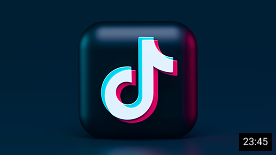
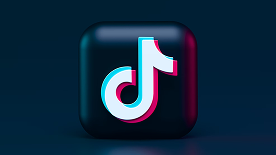
헤더, 사이드바, 반응혁 작업 완료

Changed region(s): [[0.8406, 0.8516, 0.9855, 0.9806]]

diff --git a/index.html b/index.html
@@ -85,14 +85,19 @@
             <li class="item">Item</li>
             <li class="item">Item</li>
             <li class="item">Item</li>
+            
           </ul>
         </nav>
+        
       </div>
 
       <!-- 메인 내 콘텐츠(비디오카드) -->
       <section class = "video-list">
         <article class ="video-card">
-          <img src="./images/main/img-youtube.png" alt="유튜브" class = "video-card-img">
+          <div class ="video-relative">
+            <img src="./images/main/img-youtube.png" alt="유튜브" class = "video-card-img">
+            <span class ="play-time">23:45</span>
+          </div>
           <div class = "video-card-container">
             <img src="./images/main/icon-User-Avatar-2.png" alt="아바타2" class ="avatar">
             <div class = "video-card-content">
@@ -104,7 +109,10 @@
         </article>
 
         <article class ="video-card">
-          <img src="./images/main/img-instagram.png" alt="인스타그램" class = "video-card-img">
+          <div class ="video-relative">
+            <img src="./images/main/img-instagram.png" alt="인스타" class = "video-card-img">
+            <span class ="play-time">23:45</span>
+          </div>
           <div class = "video-card-container">
             <img src="./images/main/icon-User-Avatar-3.png" alt="아바타3" class ="avatar">
             <div class = "video-card-content">
@@ -116,7 +124,10 @@
         </article>
 
         <article class ="video-card">
-          <img src="./images/main/img-tiktok.png" alt="틱톡" class = "video-card-img">
+          <div class ="video-relative">
+            <img src="./images/main/img-tiktok.png" alt="틱톡" class = "video-card-img">
+            <span class ="play-time">23:45</span>
+          </div>
           <div class = "video-card-container">
             <img src="./images/main/icon-User-Avatar-4.png" alt="아바타4" class ="avatar">
             <div class = "video-card-content">
@@ -128,7 +139,10 @@
         </article>
 
         <article class ="video-card">
-          <img src="./images/main/img-netflix.png" alt="넷플릭스" class = "video-card-img">
+          <div class ="video-relative">
+            <img src="./images/main/img-netflix.png" alt="넷플릭스" class = "video-card-img">
+            <span class ="play-time">23:45</span>
+          </div>
           <div class = "video-card-container">
             <img src="./images/main/icon-User-Avatar-5.png" alt="아바타5" class ="avatar">
             <div class = "video-card-content">
@@ -140,7 +154,10 @@
         </article>
 
         <article class ="video-card">
-          <img src="./images/main/img-twitter.png" alt="트위터" class = "video-card-img">
+          <div class ="video-relative">
+            <img src="./images/main/img-twitter.png" alt="트위터" class = "video-card-img">
+            <span class ="play-time">23:45</span>
+          </div>
           <div class = "video-card-container">
             <img src="./images/main/icon-User-Avatar-6.png" alt="아바타6" class ="avatar">
             <div class = "video-card-content">
@@ -152,7 +169,10 @@
         </article>
 
         <article class ="video-card">
-          <img src="./images/main/img-Spotify.png" alt="스포티파이" class = "video-card-img">
+          <div class ="video-relative">
+            <img src="./images/main/img-spotify.png" alt="스푸티파이" class = "video-card-img">
+            <span class ="play-time">23:45</span>
+          </div>
           <div class = "video-card-container">
             <img src="./images/main/icon-User-Avatar-7.png" alt="아바타7" class ="avatar">
             <div class = "video-card-content">
@@ -164,7 +184,10 @@
         </article>
 
         <article class ="video-card">
-          <img src="./images/main/img-discord.png" alt="디스코드" class = "video-card-img">
+          <div class ="video-relative">
+            <img src="./images/main/img-discord.png" alt="디스코드" class = "video-card-img">
+            <span class ="play-time">23:45</span>
+          </div>
           <div class = "video-card-container">
             <img src="./images/main/icon-User-Avatar-8.png" alt="아바타8" class ="avatar">
             <div class = "video-card-content">
@@ -176,7 +199,10 @@
         </article>
 
         <article class ="video-card">
-          <img src="./images/main/igm-tesla.png" alt="테슬라" class = "video-card-img">
+          <div class ="video-relative">
+            <img src="./images/main/img-tesla.png" alt="테슬라" class = "video-card-img">
+            <span class ="play-time">23:45</span>
+          </div>
           <div class = "video-card-container">
             <img src="./images/main/icon-User-Avatar-2.png" alt="아바타2" class ="avatar">
             <div class = "video-card-content">
@@ -188,7 +214,10 @@
         </article>
 
         <article class ="video-card">
-          <img src="./images/main/img-instagram.png" alt="인스타그램" class = "video-card-img">
+          <div class ="video-relative">
+            <img src="./images/main/img-instagram.png" alt="인스타" class = "video-card-img">
+            <span class ="play-time">23:45</span>
+          </div>
           <div class = "video-card-container">
             <img src="./images/main/icon-User-Avatar-2.png" alt="아바타2" class ="avatar">
             <div class = "video-card-content">
@@ -200,7 +229,10 @@
         </article>
 
         <article class ="video-card">
-          <img src="./images/main/img-youtube.png" alt="유튜브" class = "video-card-img">
+          <div class ="video-relative">
+            <img src="./images/main/img-youtube.png" alt="유튜브" class = "video-card-img">
+            <span class ="play-time">23:45</span>
+          </div>
           <div class = "video-card-container">
             <img src="./images/main/icon-User-Avatar-2.png" alt="아바타2" class ="avatar">
             <div class = "video-card-content">
@@ -212,7 +244,10 @@
         </article>
 
         <article class ="video-card">
-          <img src="./images/main/img-tiktok.png" alt="틱톡" class = "video-card-img">
+          <div class ="video-relative">
+            <img src="./images/main/img-tiktok.png" alt="틱톡" class = "video-card-img">
+            <span class ="play-time">23:45</span>
+          </div>
           <div class = "video-card-container">
             <img src="./images/main/icon-User-Avatar-2.png" alt="아바타2" class ="avatar">
             <div class = "video-card-content">
@@ -224,7 +259,10 @@
         </article>
 
         <article class ="video-card">
-          <img src="./images/main/img-netflix.png" alt="넷플릭스" class = "video-card-img">
+          <div class ="video-relative">
+            <img src="./images/main/img-netflix.png" alt="넷플릭스" class = "video-card-img">
+            <span class ="play-time">23:45</span>
+          </div>
           <div class = "video-card-container">
             <img src="./images/main/icon-User-Avatar-2.png" alt="아바타2" class ="avatar">
             <div class = "video-card-content">
@@ -236,7 +274,10 @@
         </article>
 
         <article class ="video-card">
-          <img src="./images/main/img-twitter.png" alt="트위터" class = "video-card-img">
+          <div class ="video-relative">
+            <img src="./images/main/img-twitter.png" alt="트위터" class = "video-card-img">
+            <span class ="play-time">23:45</span>
+          </div>
           <div class = "video-card-container">
             <img src="./images/main/icon-User-Avatar-2.png" alt="아바타2" class ="avatar">
             <div class = "video-card-content">
@@ -248,7 +289,10 @@
         </article>
 
         <article class ="video-card">
-          <img src="./images/main/img-Spotify.png" alt="스포티파이" class = "video-card-img">
+          <div class ="video-relative">
+            <img src="./images/main/img-spotify.png" alt="스푸티파이" class = "video-card-img">
+            <span class ="play-time">23:45</span>
+          </div>
           <div class = "video-card-container">
             <img src="./images/main/icon-User-Avatar-2.png" alt="아바타2" class ="avatar">
             <div class = "video-card-content">
@@ -260,7 +304,10 @@
         </article>
 
         <article class ="video-card">
-          <img src="./images/main/img-discord.png" alt="디스코드" class = "video-card-img">
+          <div class ="video-relative">
+            <img src="./images/main/img-discord.png" alt="디스코드" class = "video-card-img">
+            <span class ="play-time">23:45</span>
+          </div>
           <div class = "video-card-container">
             <img src="./images/main/icon-User-Avatar-2.png" alt="아바타2" class ="avatar">
             <div class = "video-card-content">
@@ -272,7 +319,10 @@
         </article>
 
         <article class ="video-card">
-          <img src="./images/main/igm-tesla.png" alt="테슬라" class = "video-card-img">
+          <div class ="video-relative">
+            <img src="./images/main/img-tesla.png" alt="테슬라" class = "video-card-img">
+            <span class ="play-time">23:45</span>
+          </div>
           <div class = "video-card-container">
             <img src="./images/main/icon-User-Avatar-2.png" alt="아바타2" class ="avatar">
             <div class = "video-card-content">

diff --git a/css/main.css b/css/main.css
@@ -6,9 +6,11 @@
     --bg: #212121;
     --bg-2: #000000;
     --bg-3: #181818;
+    --bg-4: #303030;
     --text: #ffffff;
     --text-2: #aaaaaa;
     --accent: #cc0000;
+    --hover: #717171;
 }
 
 /*=======================
@@ -62,7 +64,7 @@
 }
 
 .hamburger-label:hover{
-    background-color: gray;
+    background-color: var(--hover);
     border-radius: 50%;
 }
 
@@ -103,7 +105,8 @@
     height: 100%;
 }
 .header-search{
-    background: #121212;
+    background: #121212;  
+    /* root 없음 */
     width: 100%;
     height: 70%;
     color: #AAAAAA;
@@ -120,10 +123,10 @@
     cursor: pointer;
 }
 .back-btn:hover{
-    background: #383838;
+    background: var(--hover);
 }
 .search-btn{
-    background-color: #303030;
+    background-color: var(--bg-4);
     width: 64px;
     height: 40px;
     border: none;
@@ -132,6 +135,10 @@
     margin-left: 2px;
     cursor: pointer;
 
+}
+
+.search-btn:hover{
+    background: var(--hover);
 }
 .mobile-search-container{
     display: none;
@@ -151,12 +158,12 @@
 }
 
 .mobile-search-label:hover{
-    background: #383838;
+    background: var(--hover);
     
 }
 
 .search-container > img:hover{
-    background: #303030;
+    background: var(--hover);
 }
 
 /*=======================
@@ -179,6 +186,10 @@
     width: 24px;
     height: 24px;
     cursor: pointer;
+}
+
+.header-mic-container:hover{
+    background: var(--hover);
 }
 
 /*=======================
@@ -230,7 +241,7 @@
 }
 
 .aside::-webkit-scrollbar-thumb{
-    background: #717171;
+    background: var(--hover);
     border-radius: 10px;
 }
 
@@ -268,7 +279,7 @@
 
 .aside-nav-container{
     padding: 12px 0;
-    border-bottom: 1px solid #303030;
+    border-bottom: 1px solid var(--hover);
 }
 
 
@@ -326,7 +337,6 @@
     height: 100%;
     align-items: center;
     width: max-content;
-    
 }
 
 .item{
@@ -334,15 +344,20 @@
     color: var(--text);
     border: 0.3px solid #AAAAAA;
     padding: 8px 12px;
-    background: #303030;
+    background: var(--bg-4);
     border-radius: 20px;
     cursor: pointer;
     
 }
 
 .item.active{
-    background:var(--text);
-    color: #000000;
+    background:#FFFFFF;
+    color: #030303;
+    
+}
+
+.item:hover{
+    background: var(--hover);
 }
 
 /*=======================
@@ -360,12 +375,26 @@
     width: 100%;
     
 }
+.video-relative{
+    position: relative;
+}
 
 .video-card-img{
     width:100%;
     aspect-ratio:16 / 9;
     object-fit:cover;
     border-radius:12px;
+}
+
+.play-time{
+    position: absolute;
+    background: var(--bg-2);
+    color: var(--text);
+    bottom: 10px;
+    right: 10px;
+    padding: 5px;
+    font-size: 0.9rem;
+    font-weight: 400;
 }
 
 .avatar{
@@ -526,12 +555,12 @@
 
         width: 40px;
         height: 40px;
-
+        padding: 0 7px;
         margin-right: 24px;
         margin-left: 12px;
         cursor: pointer;
         color: white;
-        font-size: 24px;
+        font-size: 1.5rem;
     }
 
     .header-mic-container{
